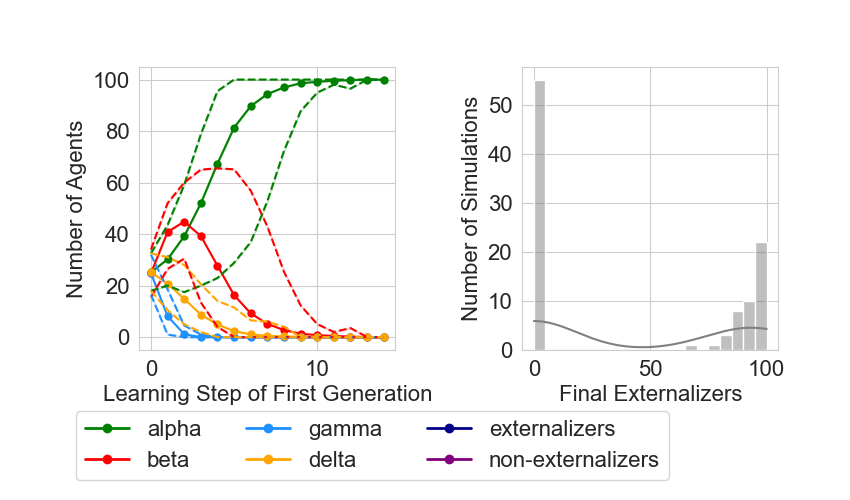
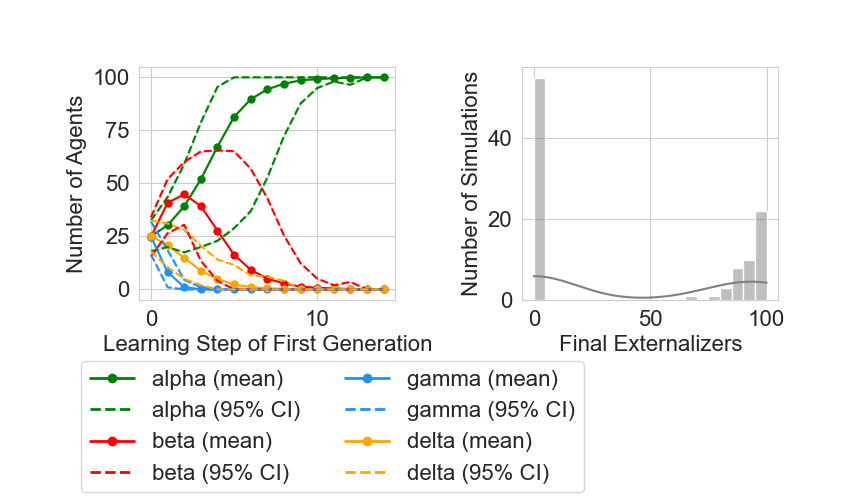
corrected visualization_2 and added statistical significance vs benchmark simulation

diff --git a/src/visualization_2.py b/src/visualization_2.py
@@ -55,34 +55,13 @@ def visualize_robustness(filename):
     df = read_data(csvpath="/../data/"+filename)
     
     max_gen = int(df.reset_index()["generation"].max())
-    gen_ext_dict = {i: [] for i in range(max_gen+1)}
-    gen_non_ext_dict = {i: [] for i in range(max_gen+1)}
-    natural_selection_df = pd.DataFrame(columns=["generation", "ext_trait", "mean", "97.5", "2.5"])
-
     max_sim = int(df.reset_index()["simulation"].max())
+    final_ext = []
 
     for simulation in range(max_sim+1):
         max_gen_in_sim = int(df.loc[pd.IndexSlice[simulation, :, :]].reset_index()["generation"].max())
-        for generation in range(max_gen_in_sim+1):
-            number_ext = df.loc[(simulation, generation, 0), pd.IndexSlice[:, "externalization"]].sum()
-            gen_ext_dict[generation].append(number_ext)
-            gen_non_ext_dict[generation].append(len(df.columns)/2 - number_ext)
-    
-    for generation in range(max_gen+1):
-        natural_selection_df.loc[len(natural_selection_df)] = [
-            generation,
-            "externalizers",
-            pd.Series(gen_ext_dict[generation]).mean(),
-            pd.Series(gen_ext_dict[generation]).quantile(0.975),
-            pd.Series(gen_ext_dict[generation]).quantile(0.025)
-        ]
-        natural_selection_df.loc[len(natural_selection_df)] = [
-            generation,
-            "non-externalizers",
-            pd.Series(gen_non_ext_dict[generation]).mean(),
-            pd.Series(gen_non_ext_dict[generation]).quantile(0.975),
-            pd.Series(gen_non_ext_dict[generation]).quantile(0.025)
-        ]
+        number_ext = df.loc[(simulation, max_gen_in_sim, 0), pd.IndexSlice[:, "externalization"]].sum()
+        final_ext.append(number_ext)
 
     max_lst = int(df.reset_index()["learning_step"].max())
     learning_process_df = pd.DataFrame(columns=["learning_step", "behavior", "mean", "97.5", "2.5"])
@@ -98,26 +77,13 @@ def visualize_robustness(filename):
                     learning_step, key, pd.Series(list_dict[key]).mean(), pd.Series(list_dict[key]).quantile(0.975), pd.Series(list_dict[key]).quantile(0.025)
                 ]
 
-    result_ext_df = pd.DataFrame(columns=["simulation", "externalizers"])
-    for simulation in range(max_sim+1):
-        max_gen = int(df.loc[pd.IndexSlice[simulation, :, :]].reset_index()["generation"].max())
-        result_ext_df.loc[len(result_ext_df)] = [
-            simulation, df.loc[(simulation, max_gen, 0), pd.IndexSlice[:, "externalization"]].sum()
-        ]
-
-
     sns.set_style("whitegrid")
     
-    # fig, axes = plt.subplots(1, 3, figsize=(12, 5))
     fig, axes = plt.subplots(1, 2, figsize=(8.5, 5))
     axes = axes.flatten()
 
     axes[0].set_ylabel("Number of Agents")
     axes[0].set_xlabel("Learning Step of First Generation")
-    # axes[1].set_ylabel("Number of Agents")
-    # axes[1].set_xlabel("Generation")
-    # axes[2].set_ylabel("Number of Simulations")
-    # axes[2].set_xlabel("Final Externalizers")
     axes[1].set_ylabel("Number of Simulations")
     axes[1].set_xlabel("Final Externalizers")
 
@@ -127,14 +93,7 @@ def visualize_robustness(filename):
                         linestyle='--', palette=COLOR_DICT, markeredgewidth=0, ax=axes[0])
     sns.lineplot(data=learning_process_df, x="learning_step", y="2.5", hue="behavior",
                         linestyle='--', palette=COLOR_DICT, markeredgewidth=0, ax=axes[0])
-    # sns.lineplot(data=natural_selection_df, x="generation", y="mean", hue="ext_trait", 
-    #                     marker='o', palette=COLOR_DICT, markeredgewidth=0, ax=axes[1])
-    # sns.lineplot(data=natural_selection_df, x="generation", y="97.5", hue="ext_trait",
-    #                     linestyle='--', palette=COLOR_DICT, markeredgewidth=0, ax=axes[1])
-    # sns.lineplot(data=natural_selection_df, x="generation", y="2.5", hue="ext_trait",
-    #                     linestyle='--', palette=COLOR_DICT, markeredgewidth=0, ax=axes[1])
-    # sns.histplot(data=result_ext_df, x="externalizers", stat="count", bins=20, ax=axes[2], color="gray", kde=True)
-    sns.histplot(data=result_ext_df, x="externalizers", stat="count", bins=20, ax=axes[1], color="gray", kde=True)
+    sns.histplot(x=pd.Series(final_ext), stat="count", bins=20, ax=axes[1], color="gray", kde=True)
 
     # Remove legends from individual plots
     for ax in axes:
@@ -145,25 +104,23 @@ def visualize_robustness(filename):
     handles = []
     for behavior in behaviors:
         # Line marker for line plots
-        line = Line2D([0], [0], color=COLOR_DICT[behavior], marker='o', linestyle='-', linewidth=2, markersize=6)
+        line1 = Line2D([0], [0], color=COLOR_DICT[behavior], marker='o', linestyle='-', linewidth=2, markersize=6)
+        line2 = Line2D([0], [0], color=COLOR_DICT[behavior], marker=None, linestyle='--', linewidth=2, markersize=6)
 
-        handles.append((line, behavior))
-    
-    for ext_trait in ["externalizers", "non-externalizers"]:
-        line = Line2D([0], [0], color=COLOR_DICT[ext_trait], marker='o', linestyle='-', linewidth=2, markersize=6)
-        handles.append((line, ext_trait))
+        handles.append((line1, f"{behavior} (mean)"))
+        handles.append((line2, f"{behavior} (95% CI)"))
 
     # Combine them into a single legend
     fig.legend(
         handles=[h[0] for h in handles], 
         labels=[h[1] for h in handles],
-        ncol=3,
+        ncol=2,
         # bbox_to_anchor=(0.6, 0.2)
-        bbox_to_anchor=(0.8, 0.2)
+        bbox_to_anchor=(0.7, 0.3)
     )
 
     fig.tight_layout(pad=3.0)
-    plt.subplots_adjust(bottom=0.3)
+    plt.subplots_adjust(bottom=0.4)
 
     return fig
 

diff --git a/src/statistical_significance.py b/src/statistical_significance.py
@@ -1,0 +1,70 @@
+
+import pandas as pd
+import os
+import numpy as np
+from scipy.stats import mannwhitneyu
+
+COLOR_DICT = {
+    "alpha": "green",
+    "beta": "red", 
+    "gamma": "dodgerblue",
+    "delta": "orange",
+    "externalizers": "darkblue",
+    "non-externalizers": "purple"
+}
+
+def read_data(csvpath="/../data/ABM_base_simulation.csv"):
+    # Read the file
+    file_dir = os.path.dirname(os.path.realpath(__file__))
+    csv_file = file_dir+csvpath
+    df = pd.read_csv(csv_file, dtype=str)
+
+    # Convert to numeric
+    df = df.loc[2:len(df)]
+    for col in df.columns:
+        try:
+            df[col] = pd.to_numeric(df[col])
+        except ValueError:
+            pass
+
+    index_colnames = ["simulation", "generation", "learning_step"]
+    df.rename(columns=dict(zip(df.columns[:3], index_colnames)), inplace=True)
+    df.set_index(index_colnames, inplace=True)
+    
+    cols = []
+    for i in range(int(len(df.columns)/2)):
+        for attr in ["externalization", "behavior"]:
+            cols.append((i, attr))
+    df.columns = pd.MultiIndex.from_tuples(cols)
+
+    return df
+
+def test_for_significance(filename):
+    df = read_data(csvpath="/../data/"+filename)
+    
+    max_sim = int(df.reset_index()["simulation"].max())
+    simulation_results = []
+
+    for simulation in range(max_sim+1):
+        max_gen_in_sim = int(df.loc[pd.IndexSlice[simulation, :, :]].reset_index()["generation"].max())
+        number_ext = df.loc[(simulation, max_gen_in_sim, 0), pd.IndexSlice[:, "externalization"]].sum()
+        simulation_results.append(int(number_ext))
+
+
+    print("Simulation results:", simulation_results)
+    benchmark = [0]*96+[3,14,26,42]
+    print("Benchmark results:", benchmark)
+
+    # One-sided Mann-Whitney U test to test if the simulation results are greater than the benchmark
+    statistic, p_value = mannwhitneyu(simulation_results, benchmark, alternative='greater')
+
+    print("Mann-Whitney U statistic:", statistic)
+    print("p-value:", p_value)
+
+    
+
+
+
+if __name__ == "__main__":
+    file_dir = os.path.dirname(os.path.realpath(__file__))
+    test_for_significance("ABM_base_simulation.csv")
